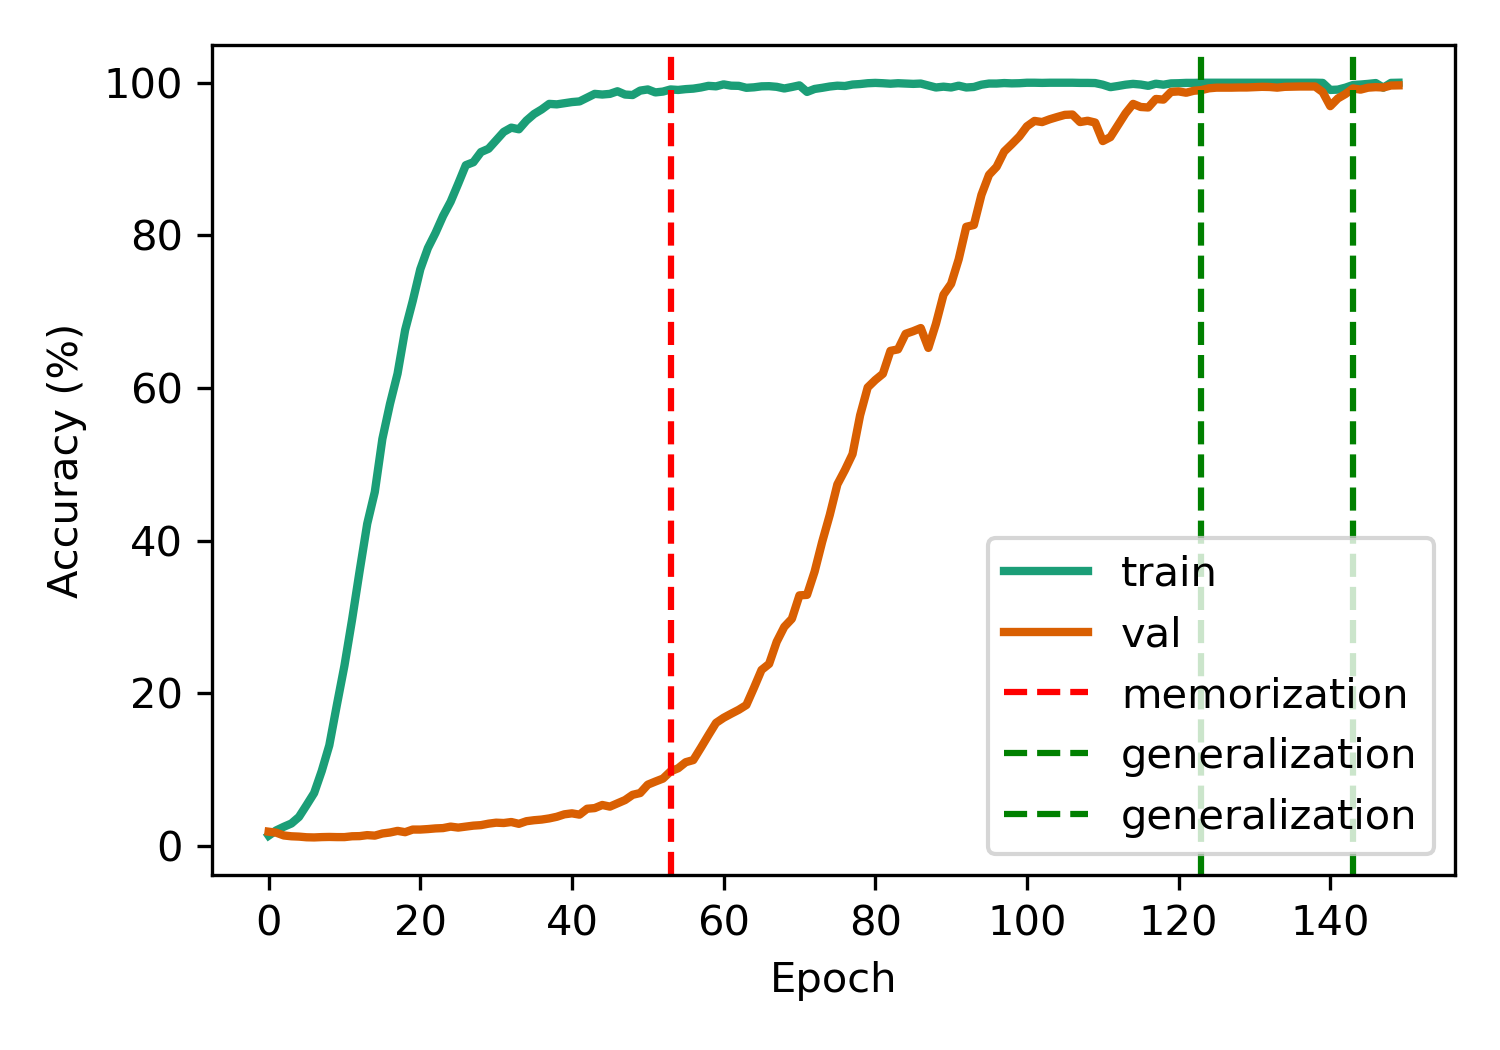
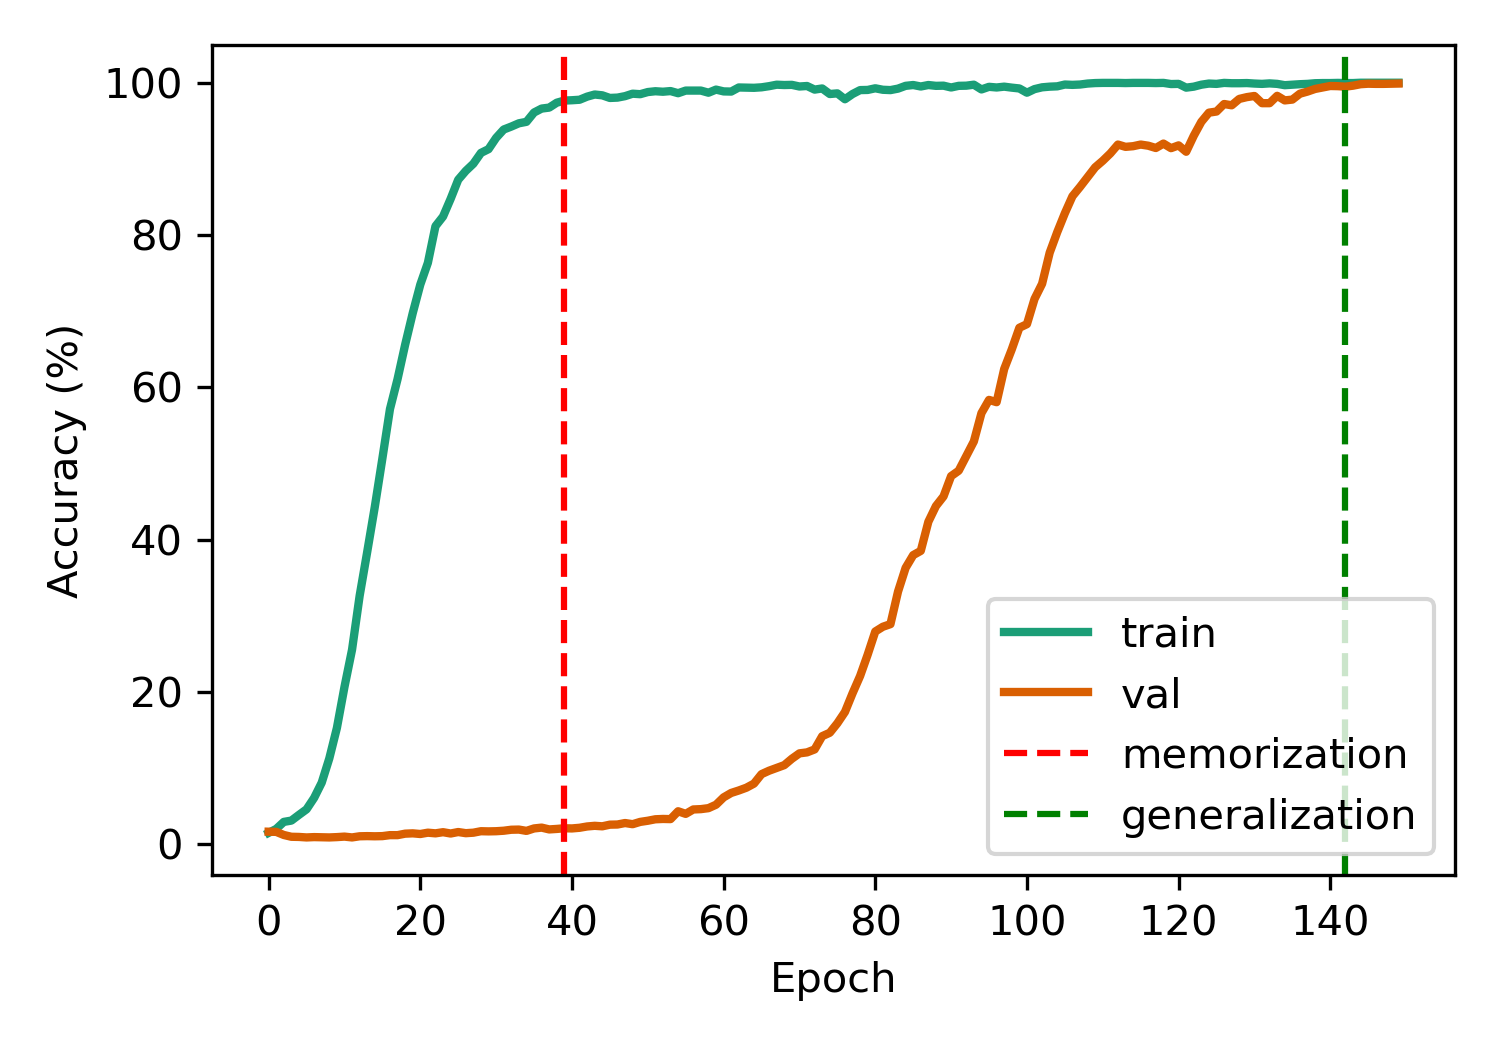
Delayed triggering of events

diff --git a/main.py b/main.py
@@ -42,6 +42,16 @@ parser.add_argument('--seed', type=int, default=random.randint(0,1000), help='ra
 parser.add_argument('--cpu', action='store_true', help='use cpu only')
 
 
+def padded_access(x, idx):
+    if idx < 0:
+        if len(x) + idx < 0:
+            return 0
+        return x[len(x) + idx]
+    elif idx >= len(x):
+        return 0
+    else:
+        return x[idx]
+
 class NeuralNetwork:
     def __init__(self,
                  model: nn.Module,
@@ -184,9 +194,10 @@ class NeuralNetwork:
             self.val_acc_trace.append(avg_val_acc)
             postfix.update({'val_loss': f'{avg_val_loss:.3f}',
                             'val_acc': f'{avg_val_acc:.3f}'})
+
             prev_train_acc = self.train_acc_trace[-2] if len(self.train_acc_trace) > 1 else 0.0
             prev_val_acc = self.val_acc_trace[-2] if len(self.val_acc_trace) > 1 else 0.0
-            if avg_train_acc > 0.99 and avg_val_acc < 0.2 and prev_train_acc < 0.99:
+            if padded_access(self.train_acc_trace, -5) > 0.95 and padded_access(self.val_acc_trace, -5) < 0.2 and padded_access(self.train_acc_trace, -6) < 0.95:
                 print(f"Memorization happened at epoch {epoch}!")
                 self.memorization_epoch = epoch
                 if self.memorization_hessian_eigenvalues is None:
@@ -206,7 +217,7 @@ class NeuralNetwork:
                         f"Negative Hessian eigenvalues among top {len(top)} at memorization: "
                         f"{self.memorization_hessian_negative_eigenvalues}"
                     )
-            if avg_train_acc > 0.99 and avg_val_acc > 0.99 and prev_val_acc < 0.99:
+            if padded_access(self.train_acc_trace, -5) > 0.99 and padded_access(self.val_acc_trace, -5) > 0.99 and padded_access(self.val_acc_trace, -6) < 0.99:
                 print(f"Generalization happened at epoch {epoch}!")
                 self.generalization_epochs.append(epoch)
                 probe_size = min(256, train_data[0].shape[0])
@@ -285,6 +296,21 @@ def main(args):
     ax.legend()
     fig.tight_layout()
     fig.savefig('media/grokking.png', dpi=300)
+    plt.show()
+
+    fig, ax = plt.subplots(figsize=(5, 3.5))
+    ax.plot(np.array(net.train_error_trace),
+            label='train', color='#1b9e77', lw=lw)
+    ax.plot(np.array(net.val_error_trace),
+            label='val', color='#d95f02', lw=lw)
+    plt.axvline(x=net.memorization_epoch, color='red', linestyle='--', linewidth=1.5, label='memorization')
+    for gen_epoch in net.generalization_epochs:
+        plt.axvline(x=gen_epoch, color='green', linestyle='--', linewidth=1.5, label='generalization')
+    ax.set_xlabel('Epoch')
+    ax.set_ylabel('Loss')
+    ax.legend()
+    fig.tight_layout()
+    fig.savefig('media/grokking_loss.png', dpi=300)
     plt.show()
 
 
